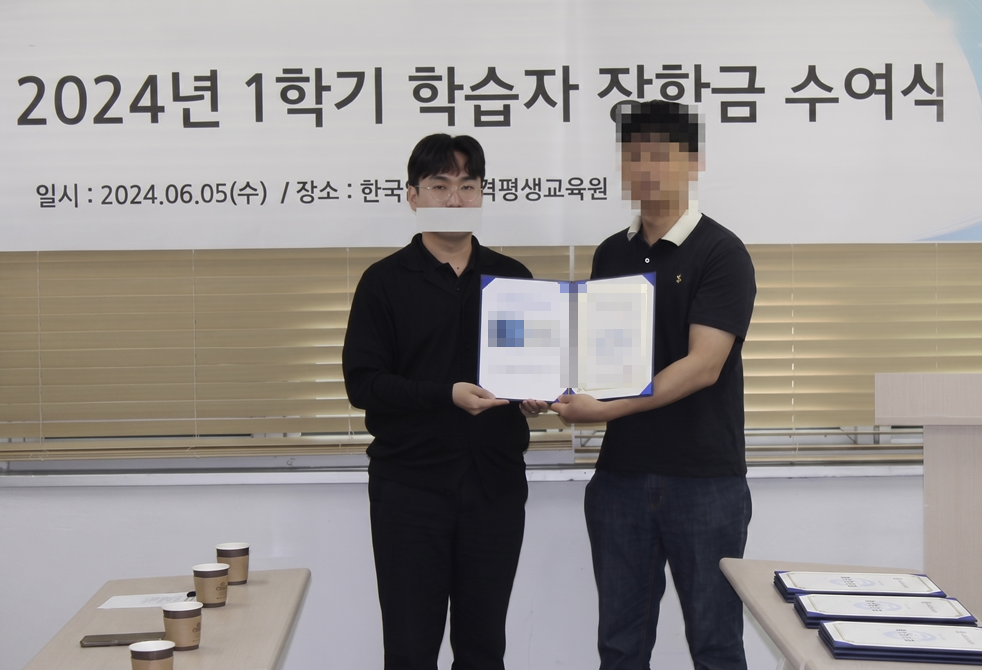
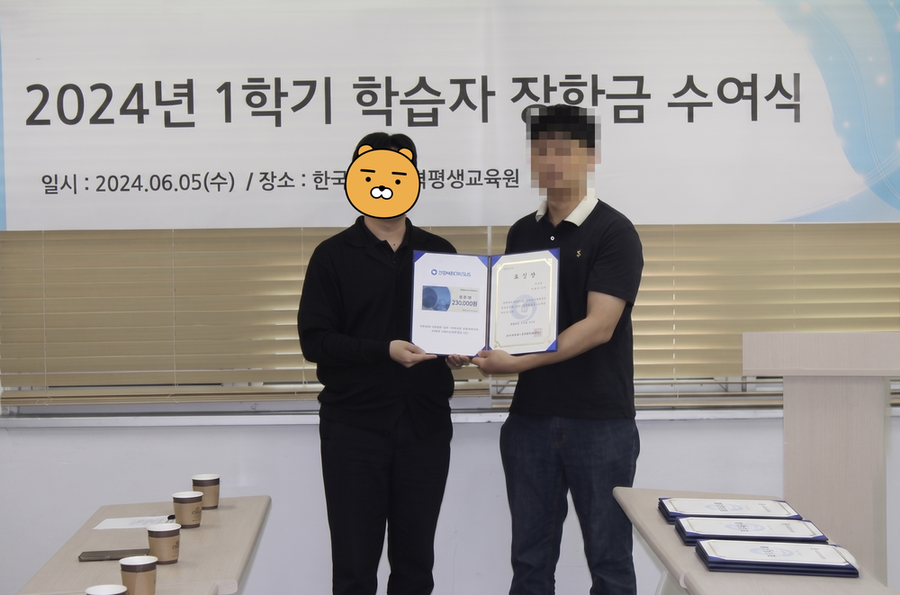
Add files via upload

diff --git a/style.css b/style.css
@@ -233,7 +233,7 @@ img{max-width:100%;display:block}
 .rev-grid{display:grid;grid-template-columns:repeat(3,1fr);gap:18px}
 .rev-card{background:#fff;border:1px solid var(--line);border-radius:16px;padding:24px;display:flex;flex-direction:column;gap:16px;box-shadow:0 10px 30px -24px rgba(13,63,126,.5);transition:transform .25s,box-shadow .25s;overflow:hidden}
 .rev-card:hover{transform:translateY(-4px);box-shadow:var(--shadow)}
-.rev-card .proof{margin:-24px -24px 0;max-height:300px;background:var(--paper-2);overflow:hidden;display:grid;place-items:center;border-bottom:1px solid var(--line)}
+.rev-card .proof{margin:0 0 4px;max-height:300px;background:var(--paper-2);overflow:hidden;display:grid;place-items:center;border:1.5px solid var(--ink);border-radius:12px;padding:6px}
 .rev-card .proof img{width:100%;max-height:300px;height:auto;object-fit:contain;display:block;cursor:zoom-in;transition:transform .35s}
 .rev-card .proof img:hover{transform:scale(1.02)}
 .rev-card .proof-tag{position:absolute;margin:10px;background:rgba(13,63,126,.85);color:#fff;font-size:11px;font-weight:600;padding:4px 10px;border-radius:999px;letter-spacing:.02em}